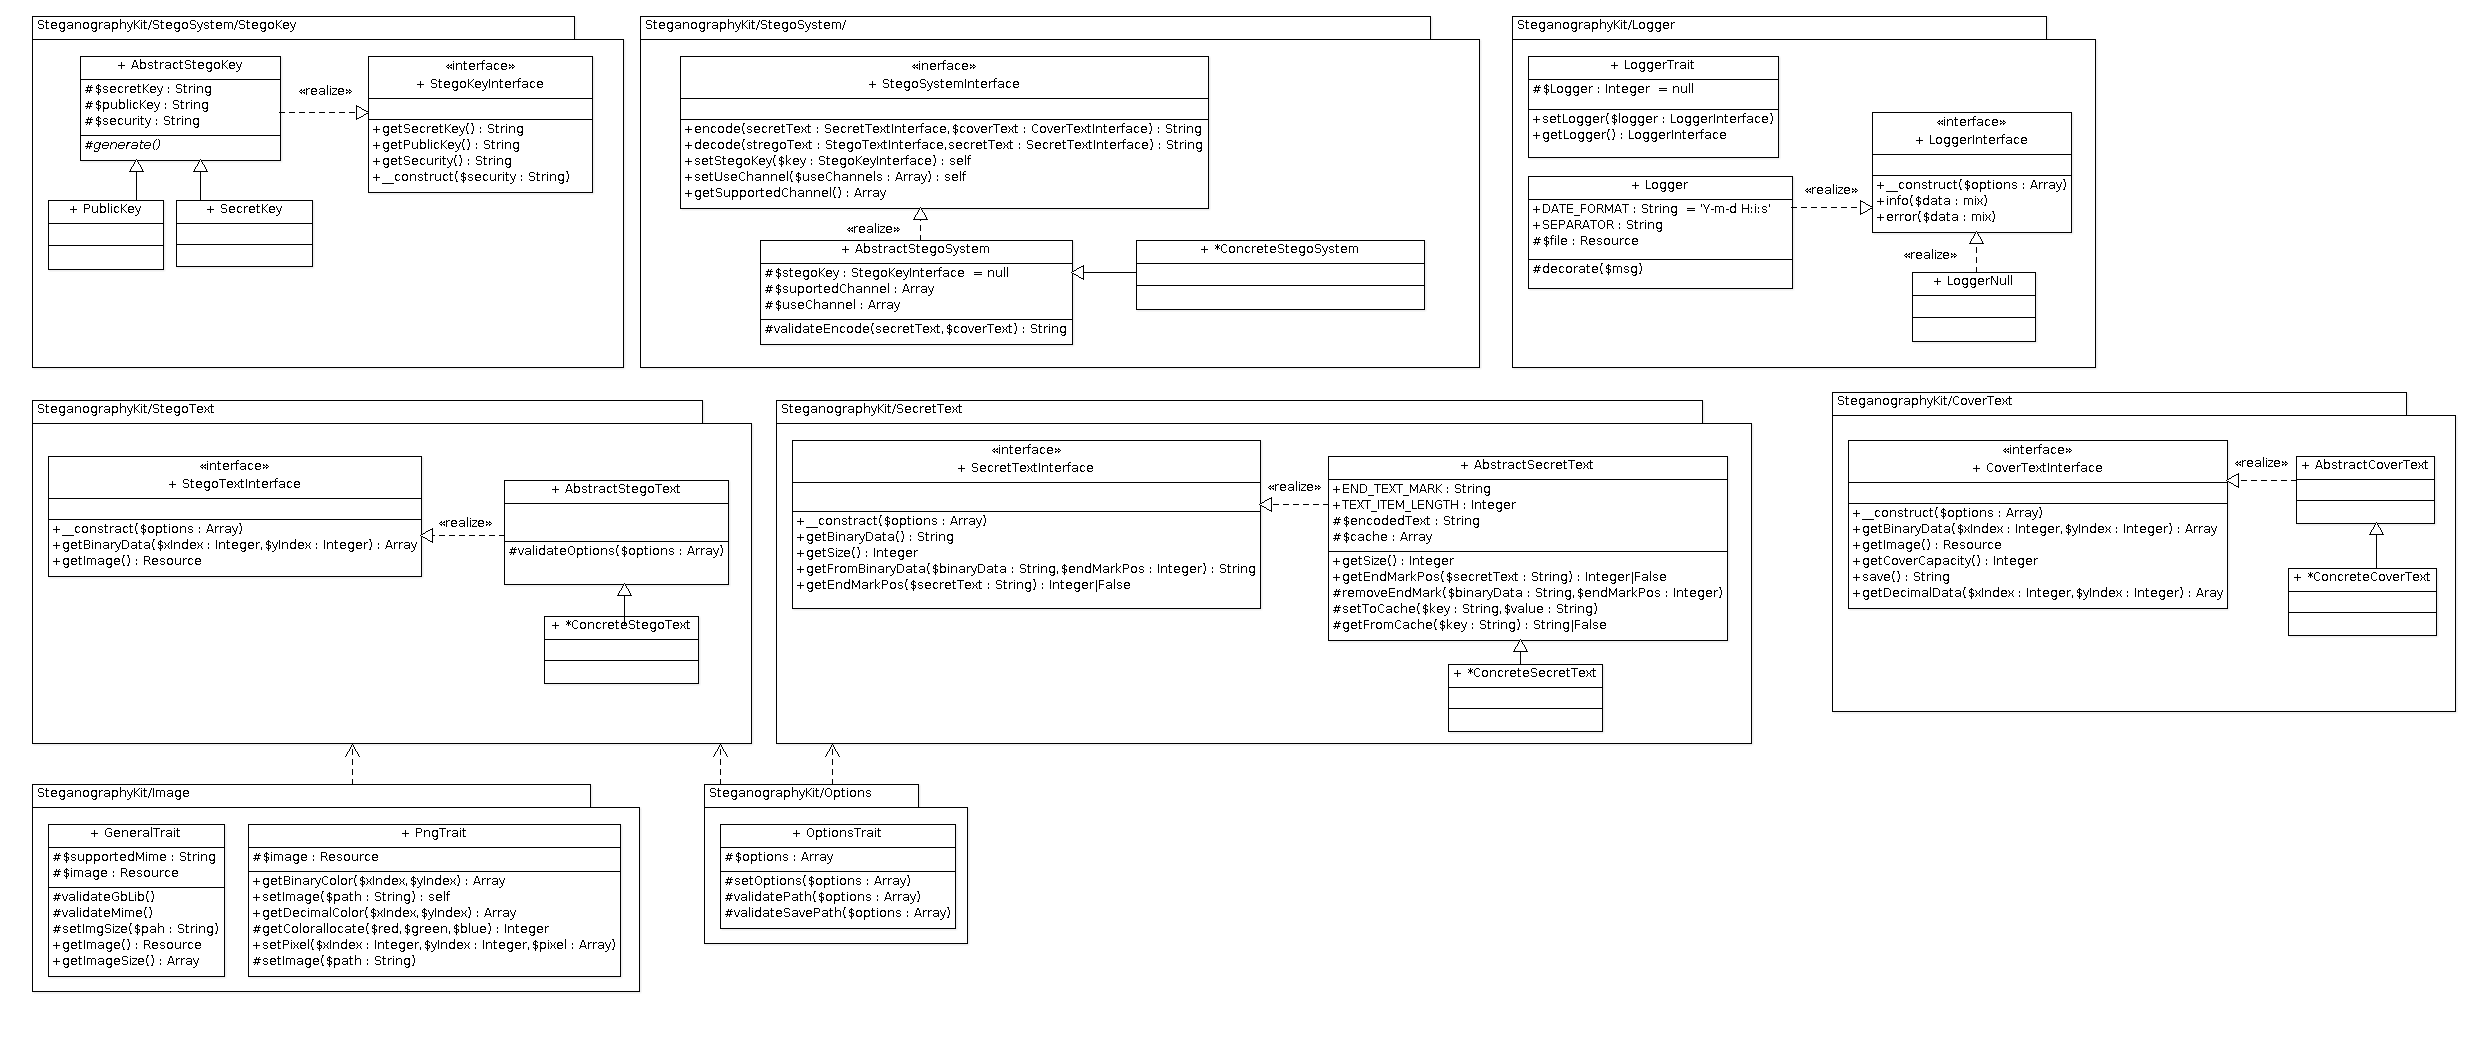
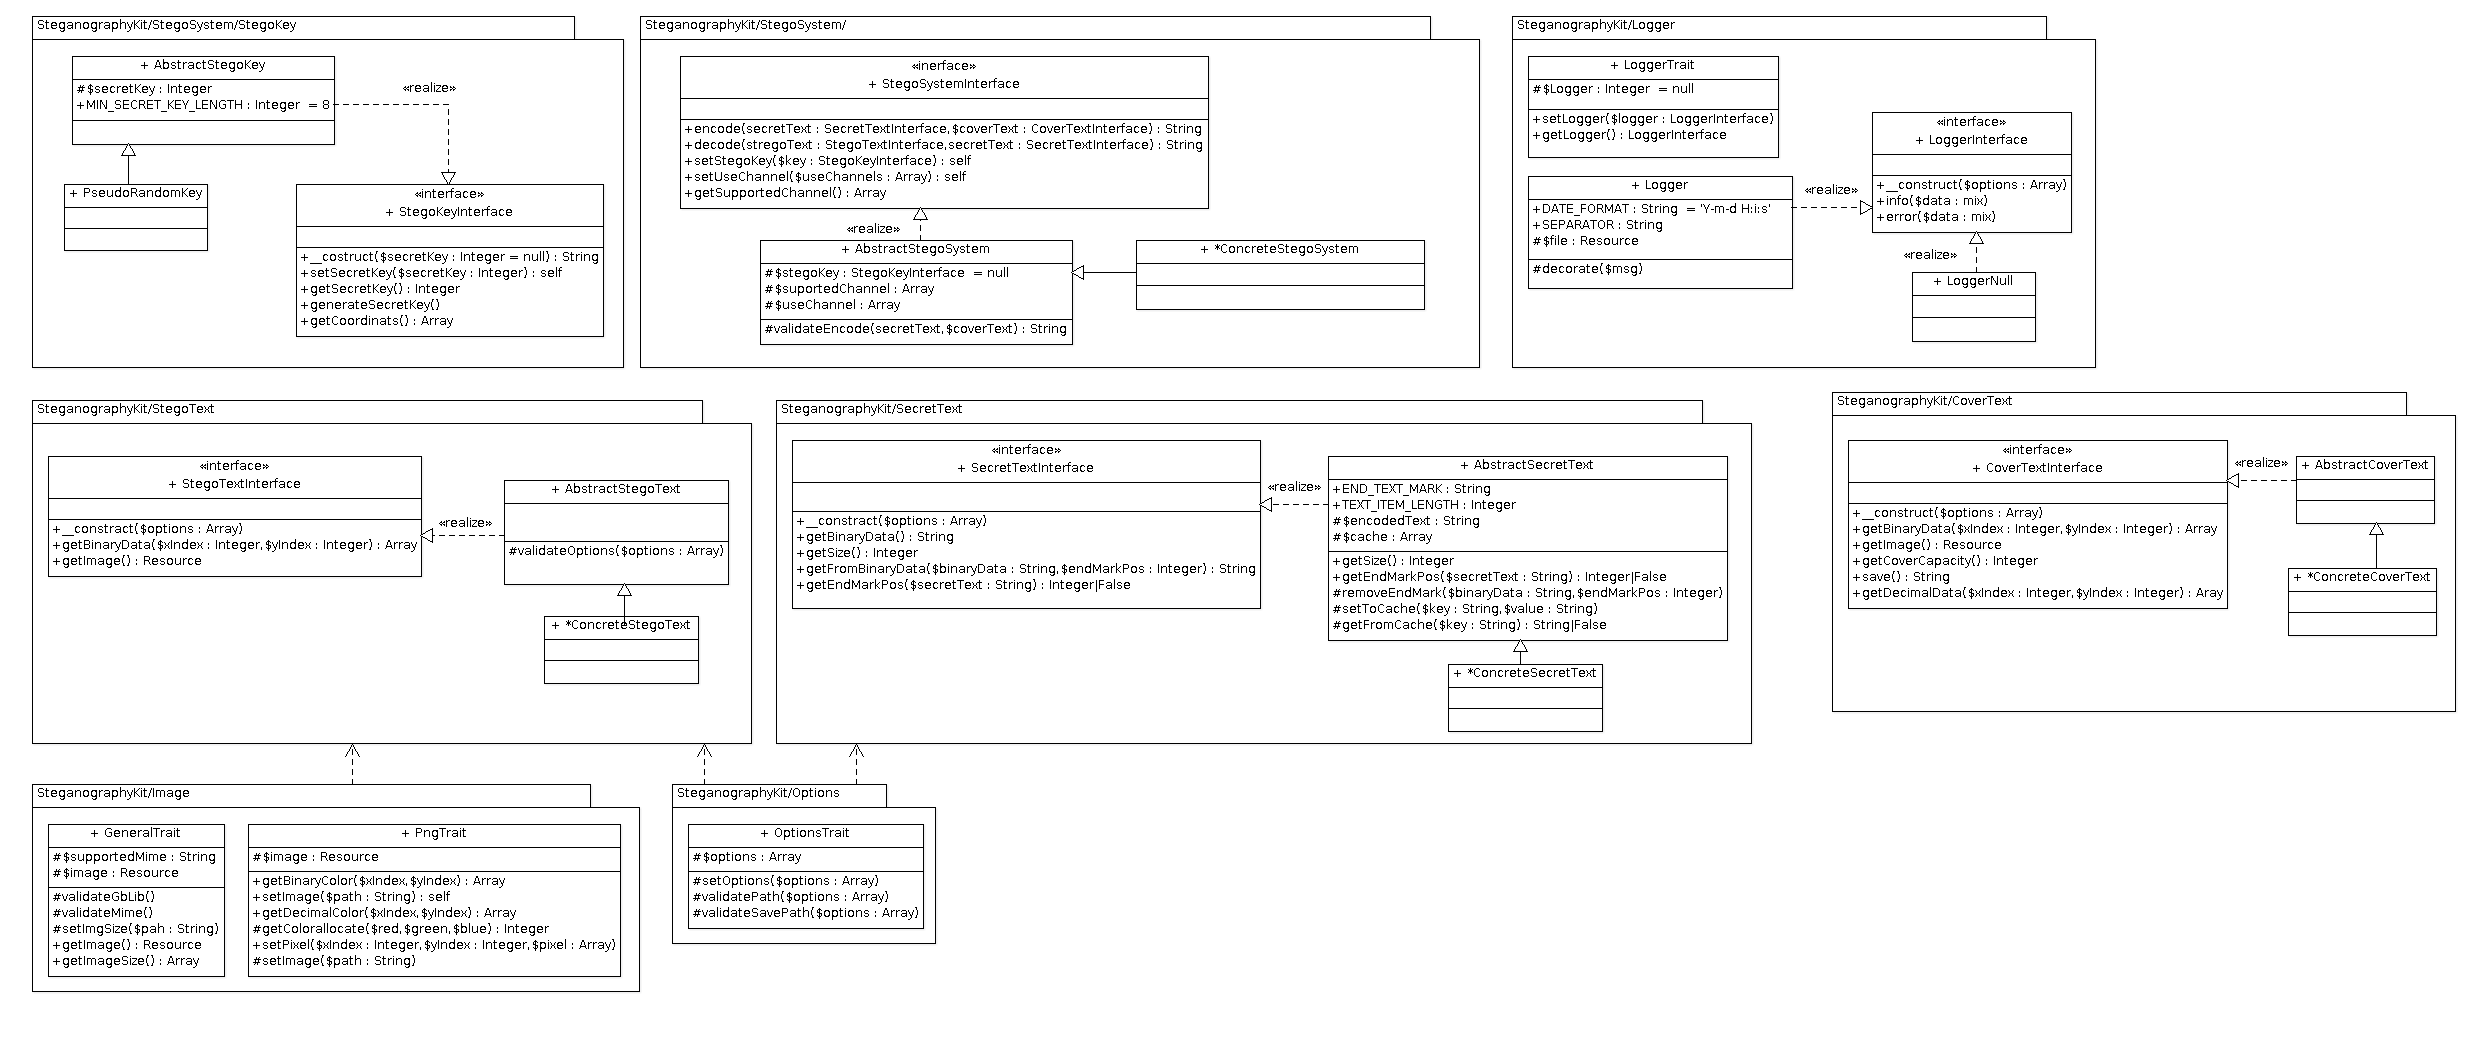
Updated README and UML diagram

diff --git a/README.md b/README.md
@@ -8,44 +8,39 @@ SteganographyKit - package of implementation several stegoSystems for image steg
 SteganographyKit is used terminology that was described in Christian Cachin [1].
 
 SteganographyKit contains:
-* Pure Steganography
-* Secret Key Steganography
+* Least Significant Bit (LSB) 
+  * Pure Steganography 
+  * Secret Key Steganography 
 
 Each algorithm of SteganographyKit is well documented and based on research. 
 General overview of Steganography and existing tools described by Sean-Philip Oriyano [3].
 
-Pure Steganography
-------------------
-Pure Steganography is a Steganography system that doesn't require prior exchange of some secret information before sending message [2].
-
-### Least Significant Bit (LSB)
+Least Significant Bit (LSB)
+---------------------------
 LSB method is modified least significant bit of coverText to get stegoText. 
 Detailed description with example can be found in [6] or in "Steganography in Depth" section [7].
-LSB is easy to hide information but also easy to reveal. 
+LSB is easy to hide information but also easy to reveal.
 
-SteganographyKit has implementation for png image [4] as a coverText and text with ASCII characters [5] as a secretText.
+SteganographyKit has implementation of LSB with such conditions:
+* png image [4] as coverText,
+* text with ASCII characters [5] as a secretText.
 
-In general encode LSB can be described by steps:
-1. Convert secretText to binary string
+### Pure Steganography
+Pure Steganography is a Steganography system that doesn't require prior exchange of some secret information before sending message [2].
+ 
+Encode algorithm can be described by steps:
+# Convert secretText to binary string
+# Add to secretText end text mark (it is used for decode algorithm)
+# Get number of bits accordingly number of channels from secretText
+# Change last bit of each RGB cannel for first pixel of coverText by bits from step 3
+# Save changing if step 3 really change RGB bit
+# Move to next coverText pixel and change last bit of each RGB channel
+# Repeat step 3-6 for each secretText item
 
-2. Add to secretText end text mark (it is used for decode algorithm)
-
-3. Get number of bits accordingly number of channels from secretText
-
-4. Change last bit of each RGB cannel for first pixel of coverText by bits from step 3
-
-5. Save changing if step 3 really change RGB bit
-
-6. Move to next coverText pixel and change last bit of each RGB channel
-
-7. Repeat step 3-6 for each secretText item
-
-Beside decode LSB looks like:
-1. Read every last bit for RGB channel of stegoText
-
-2. Stop step 1 if end text mark was found or it's read last pixel of stegoText
-
-3. Convert binary secretText to ASCII characters
+Decode algorithm can be described by steps:
+# Read every last bit for RGB channel of stegoText
+# Stop step 1 if end text mark was found or it's read last pixel of stegoText
+# Convert binary secretText to ASCII characters
 
 *Note*:
 Additionally it's possible to configurate channel that will be used in algorithm, for instance Red, Green or Green only, etc.
@@ -53,17 +48,29 @@ Additionally it's possible to configurate channel that will be used in algorithm
 * Some researches use only Blue channel for steganography because that color is less perceived by human eye. 
 Such conclusion is based on experiment [8]. But it should be taken critically because first of all stegoanalyze use computer technique to identify picture 
 with hidden information, the second digital picture is displayed on a screen that has enough light to differ Blue channel as a best choose.
- 
 
-Secret Key Steganography
-------------------------
+### Secret Key Steganography
 For Secret Key Steganography is similar with Pure Steganography but Secret Key is used for encode-decode process [2].
 
 SteganographyKit is used approach described in [2], accordingly them Secret Key is a seed for pseudo-random generator. 
-Such seed is used to create sequences of numbers that shows what pixel should be used for embed secretText. 
-Moreover all pseudo-random sequences have max period 2^n where n is a length of seed.
+Such seed is used to create sequences of numbers that shows in what order coverText's pixels should be taken for embed secretText. 
+Moreover all pseudo-random sequences have period 2^(n/2) in average where n is a number of bits in seed.
 
-Therefore it increase complexity for the attacker [9].
+SteganogrpahyKit implements Secret Key Steganography with such conditions:
+* Max length of secretText is 4 times less in compare with Pure Steganography. It means that only half of pixels are going to modify.
+Such restriction helps to make room for better random distribution of secretText. 
+* SecretKey is a seed for ``mt_srand`` function should have at least 8 digits (20 bits) therefore average period of pseudo-random numbers are 
+2^10. Taking into account that x and y coordinates in CoverText are token by pseudo-random so we have at least 2^20 period for coordinates.  
+
+Of course such conditions should be investigated to find out optimize min parameters.
+
+Encode/Decode algorithm is differ from Pure Steganography by:
+* Method of choosing pixels in CoverText. In Pure Steganography it gets one by one but in Secret Key Steganography gets accordingly pseudo-random algorithm.
+* Method of use RGB channels. In Pure Steganography order is the same as user set but for Secret Key Steganography is changes accordingly pixel's coordinates. 
+
+If pixel coordinates X and Y and array of channels is ['red', 'green', 'blue'] then 'red' will have (X + Y) % 3 index in channel array the 
+channel that had (X + Y) % 3 would be moved to old red's place. For instance X = 4, Y = 10 them (2 + 10) % 3 = 2 then new channels array is
+['blue', 'green', 'red']. So using such approach secretText will be randomly spread through coverText bits but also through channels. 
  
 UnitTest
 --------
@@ -73,8 +80,7 @@ It should be noticed that `LsbTest::testEncodeDecode` includes random generated 
 BackLog
 -------
 Wait to implement Pure Steganography with:
-* Public Key Steganography
-* Stegoanalyze for LSB
+* Create Stegoanalyze for LSB
 * Add diagrams for algorithm's description
 
 References
